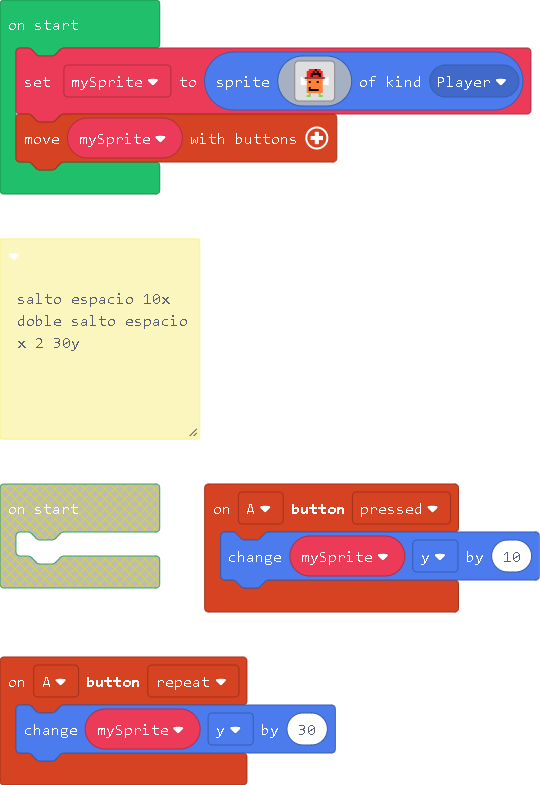
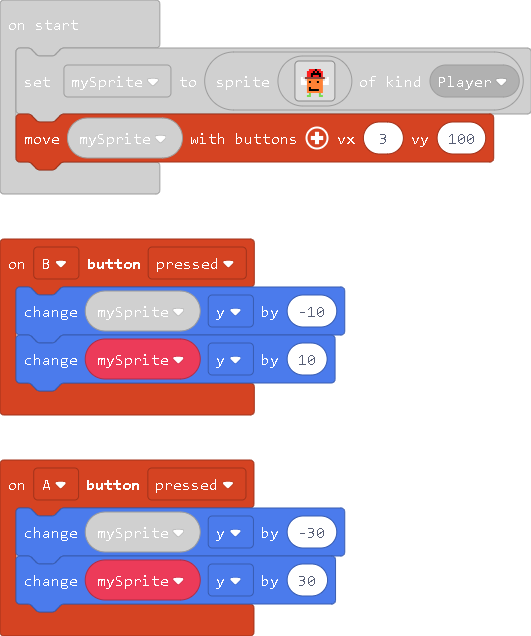
NADA

diff --git a/main.ts b/main.ts
@@ -1,13 +1,10 @@
-/**
- * salto espacio 10x
- * 
- * doble salto espacio x 2 30y
- */
-controller.A.onEvent(ControllerButtonEvent.Repeated, function () {
-    mySprite.y += 30
+controller.B.onEvent(ControllerButtonEvent.Pressed, function () {
+    mySprite.y += -10
+    mySprite.y += 10
 })
 controller.A.onEvent(ControllerButtonEvent.Pressed, function () {
-    mySprite.y += 10
+    mySprite.y += -30
+    mySprite.y += 30
 })
 let mySprite: Sprite = null
 mySprite = sprites.create(img`
@@ -28,4 +25,4 @@ mySprite = sprites.create(img`
 . . . . . 7 . . . . 7 . . . . . 
 . . . . 7 7 . . . . 7 7 . . . . 
 `, SpriteKind.Player)
-controller.moveSprite(mySprite)
+controller.moveSprite(mySprite, 3, 100)
